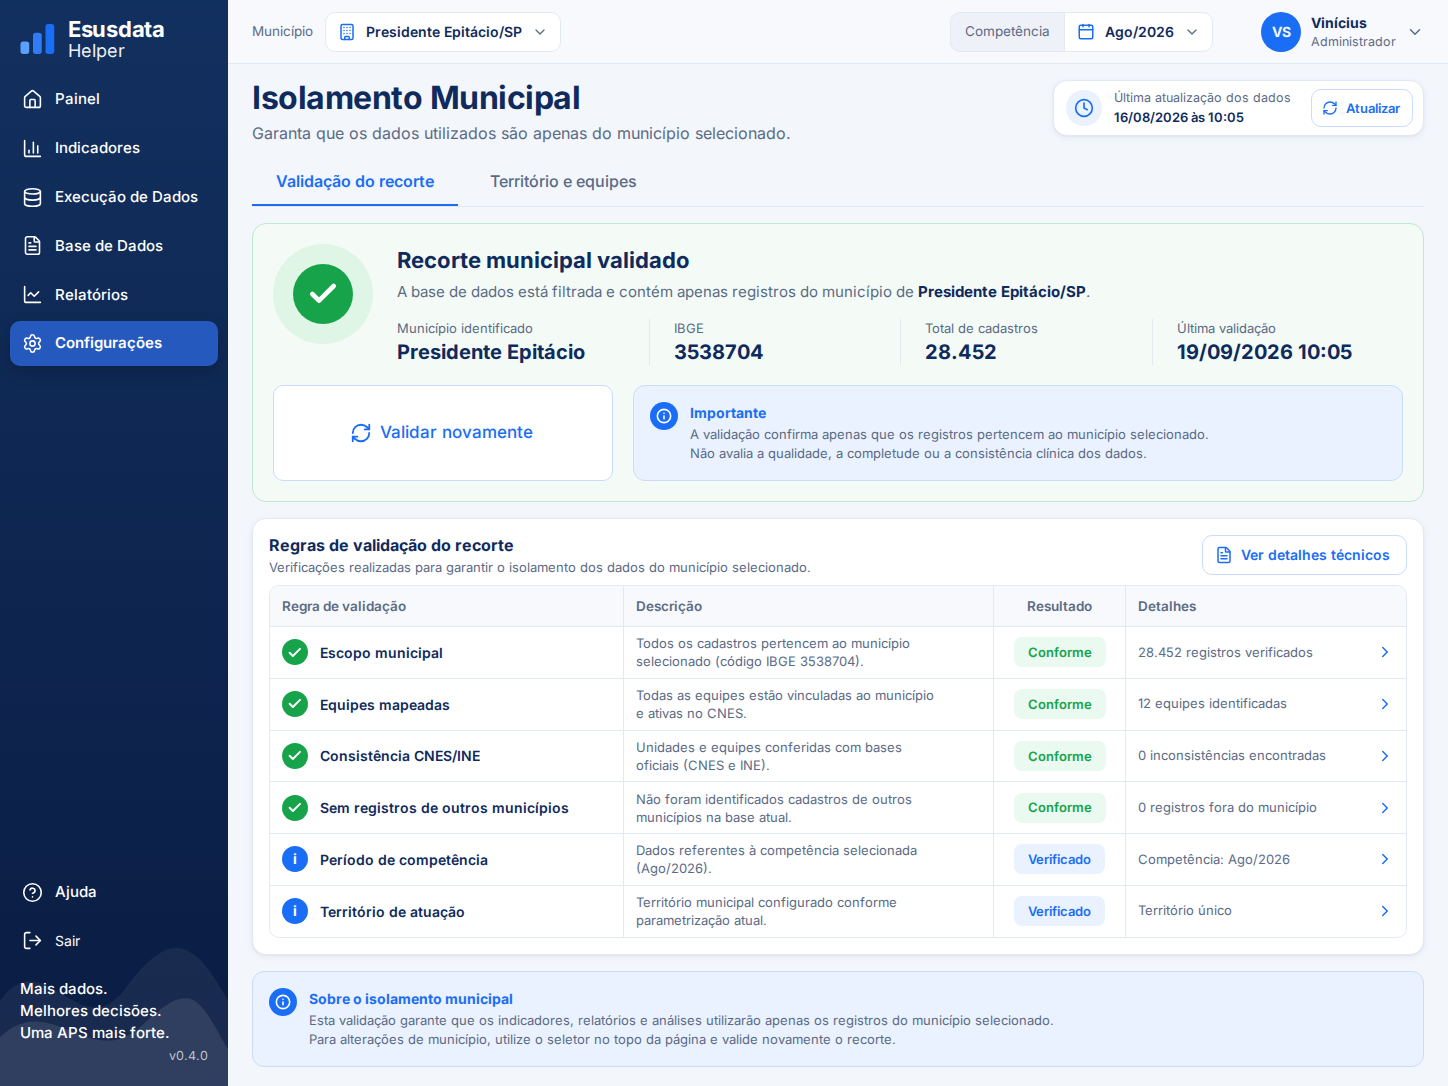
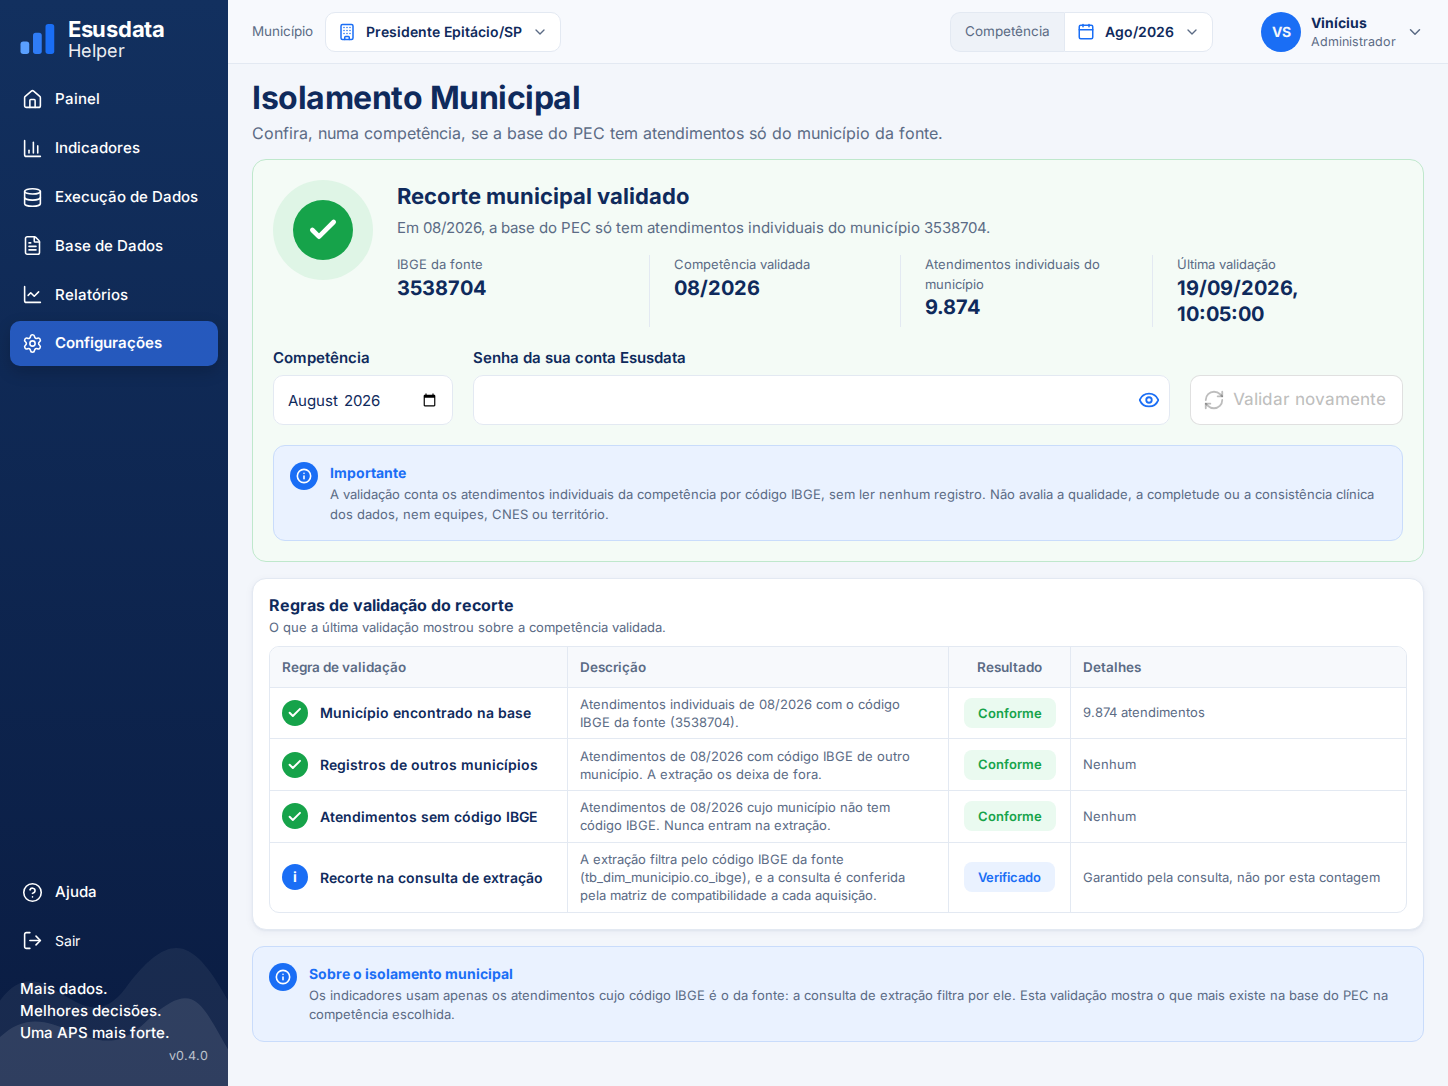
Isolamento: entrada da matriz espera a evidência ao vivo como NOT_TESTED
O schema passa a exigir approved_at/approved_by e test_result PASS só em
entradas VALIDATED. A mensagem de COMPATIBILITY_MISMATCH cobre a entrada
ainda não validada. Stub dividido para o PMD; captura da tela atualizada.

diff --git a/apps/web/src/api/normalizers.ts b/apps/web/src/api/normalizers.ts
@@ -266,7 +266,7 @@ const isolationFailureMessages: Record<Exclude<IsolationOutcome, 'CHECKED'>, str
   SOURCE_PERMISSION_DENIED: 'O usuário da fonte não tem permissão de leitura.',
   CONNECTION_FAILED: 'Não foi possível conectar à fonte.',
   COMPATIBILITY_MISMATCH:
-    'A estrutura do banco do PEC não confere com a matriz de compatibilidade. Nada foi contado.',
+    'A matriz de compatibilidade não tem esta checagem validada para a versão do PEC da fonte, ou a estrutura do banco não confere com ela. Nada foi contado.',
   SOURCE_BUDGET_EXCEEDED: 'A contagem passou do tempo limite de leitura da fonte.',
 }
 

diff --git a/apps/agent/src/test/java/esusdata/run/acquisition/StubIsolationMain.java b/apps/agent/src/test/java/esusdata/run/acquisition/StubIsolationMain.java
@@ -16,7 +16,7 @@ import tools.jackson.databind.ObjectMapper;
  */
 // Stdout is the execution-plane protocol this stub stands in for, not logging; the System.in/
 // System.out wrappers must never be closed; exit codes are the protocol's outcome.
-@SuppressWarnings({"SystemOut", "PMD.CloseResource", "PMD.DoNotTerminateVM"})
+@SuppressWarnings({"SystemOut", "PMD.CloseResource"})
 public final class StubIsolationMain {
 
     private StubIsolationMain() {}
@@ -25,14 +25,7 @@ public final class StubIsolationMain {
         String scenario = args[0];
         PrintStream out = new PrintStream(System.out, true, StandardCharsets.UTF_8);
         BufferedReader in = new BufferedReader(new InputStreamReader(System.in, StandardCharsets.UTF_8));
-        JsonNode envelope = new ObjectMapper().readTree(in.readLine());
-        if (!"check_isolation".equals(envelope.get("type").asString())
-                || !"fixture-password".equals(envelope.get("password").asString())
-                || !"2026-03-01".equals(envelope.get("period_start").asString())
-                || !"2026-04-01".equals(envelope.get("period_end_exclusive").asString())
-                || !"5.5.28".equals(envelope.get("pec_version").asString())
-                || envelope.get("budget").get("max_rows") == null
-                || envelope.has("municipality_ibge")) {
+        if (!isExpectedEnvelope(new ObjectMapper().readTree(in.readLine()))) {
             System.exit(3);
         }
         switch (scenario) {
@@ -55,26 +48,41 @@ public final class StubIsolationMain {
         if (decision == null || !decision.contains("\"type\":\"proceed\"")) {
             System.exit(1);
         }
-        switch (scenario) {
+        System.exit(afterProceed(scenario, out));
+    }
+
+    private static boolean isExpectedEnvelope(JsonNode envelope) {
+        return "check_isolation".equals(envelope.get("type").asString())
+                && "fixture-password".equals(envelope.get("password").asString())
+                && "2026-03-01".equals(envelope.get("period_start").asString())
+                && "2026-04-01".equals(envelope.get("period_end_exclusive").asString())
+                && "5.5.28".equals(envelope.get("pec_version").asString())
+                && envelope.get("budget").get("max_rows") != null
+                && !envelope.has("municipality_ibge");
+    }
+
+    /** Plays the scenario after the adapter's "proceed"; returns the exit code. */
+    private static int afterProceed(String scenario, PrintStream out) {
+        return switch (scenario) {
             case "counts" -> {
                 out.println("{\"type\":\"isolation\",\"counts\":[{\"ibge\":\"3541307\",\"count\":10029},"
                         + "{\"ibge\":null,\"count\":2}]}");
-                System.exit(0);
+                yield 0;
             }
             case "budget" -> {
                 out.println(
                         "{\"type\":\"error\",\"code\":\"SOURCE_BUDGET_EXCEEDED\",\"detail\":\"x\",\"uncertain\":true}");
-                System.exit(1);
+                yield 1;
             }
             case "counts-then-nonzero" -> {
                 out.println("{\"type\":\"isolation\",\"counts\":[]}");
-                System.exit(1);
+                yield 1;
             }
             case "negative-count" -> {
                 out.println("{\"type\":\"isolation\",\"counts\":[{\"ibge\":\"3541307\",\"count\":-1}]}");
-                System.exit(0);
+                yield 0;
             }
-            default -> System.exit(3);
-        }
+            default -> 3;
+        };
     }
 }

diff --git a/apps/agent/src/test/java/esusdata/source/pec/PecAdaptersSchemaTest.java b/apps/agent/src/test/java/esusdata/source/pec/PecAdaptersSchemaTest.java
@@ -8,6 +8,7 @@ import com.networknt.schema.SpecificationVersion;
 import java.io.InputStream;
 import org.junit.jupiter.api.Test;
 import tools.jackson.databind.ObjectMapper;
+import tools.jackson.databind.node.ObjectNode;
 
 class PecAdaptersSchemaTest {
 
@@ -23,6 +24,31 @@ class PecAdaptersSchemaTest {
             assertThat(schema.validate(matrix))
                     .as("compatibility matrix must satisfy its JSON Schema")
                     .isEmpty();
+        }
+    }
+
+    /**
+     * An entry may wait for its live evidence as NOT_TESTED without an approval, but a VALIDATED one
+     * must name who approved it and when, and must have passed.
+     */
+    @Test
+    void onlyAValidatedEntryRequiresAnApprovalAndAPassingTest() throws Exception {
+        ObjectMapper mapper = new ObjectMapper();
+        try (InputStream schemaStream = resource("/compatibility/pec-adapters.schema.json");
+                InputStream matrixStream = resource("/compatibility/pec-adapters.json")) {
+            Schema schema = SchemaRegistry.withDefaultDialect(SpecificationVersion.DRAFT_2020_12)
+                    .getSchema(schemaStream);
+            var matrix = (ObjectNode) mapper.readTree(matrixStream);
+            var entry = (ObjectNode) matrix.get("tested_with").get(0);
+            entry.remove("approved_by");
+            entry.put("test_result", "NOT_RUN");
+
+            assertThat(schema.validate(matrix).toString())
+                    .contains("approved_by")
+                    .contains("test_result");
+
+            entry.put("status", "NOT_TESTED");
+            assertThat(schema.validate(matrix)).isEmpty();
         }
     }
 

diff --git a/docs/adr/0023-checagem-de-isolamento-municipal.md b/docs/adr/0023-checagem-de-isolamento-municipal.md
@@ -58,13 +58,21 @@ sobre qualidade, completude, CNES, INE, equipes ou território.
 - `IsolationCheckDifferentialLiveTest`, contra `postgres:9.6.13`, com a fixture sintética de dois
   municípios, uma linha de município sem `co_ibge` e um atendimento fora da competência. O binário
   Rust e a mesma query rodada por JDBC dão as mesmas contagens. Senha errada vira `28P01`.
-- `ExecPlaneLivePecTest.isolationCheckOfOneCompetenciaMatchesTheSameQueryOverJdbc`, contra o PEC
-  5.5.28 de produção, pela matriz empacotada: os números estão em `test_notes` da entrada
-  `municipal_isolation` de `pec-adapters.json`.
+- **Pendente:** `ExecPlaneLivePecTest.isolationCheckOfOneCompetenciaMatchesTheSameQueryOverJdbc`
+  contra o PEC 5.5.28 de produção. O PostgreSQL do PEC só é alcançável pelo túnel SSH do ADR 0003,
+  que não estava disponível. Até essa execução, a entrada `municipal_isolation` fica `NOT_TESTED` e
+  sem aprovação, e a checagem falha fechada (`COMPATIBILITY_MISMATCH`) em produção. Para validar:
+  1. marcar a entrada como `VALIDATED` localmente;
+  2. rodar o teste com `-Dobservatorio.execution-plane.live-pec=true` e o `pec-253.env`;
+  3. se passar, gravar os números e a duração em `test_notes`, preencher `test_result: PASS`,
+     `approved_at` e `approved_by`, e recompilar o binário (o `include_str!` embute a matriz).
 
 ## Consequências
 
 - A checagem sobe um processo e faz as mesmas sondagens de uma aquisição, inclusive a varredura
   de `REQUIRED_DIMENSIONS`, antes da contagem.
+- O schema da matriz passa a exigir `approved_at`, `approved_by` e `test_result: PASS` só nas
+  entradas `VALIDATED`. Assim, uma entrada pode esperar sua evidência como `NOT_TESTED`, e o
+  `findExact` já recusa qualquer entrada que não esteja `VALIDATED`.
 - Uma versão do PEC só entra em `pec_versions` desta entrada com sua própria execução ao vivo.
   Compartilhar fingerprints com a extração não basta.
